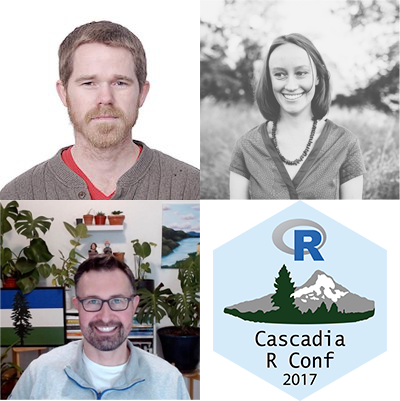
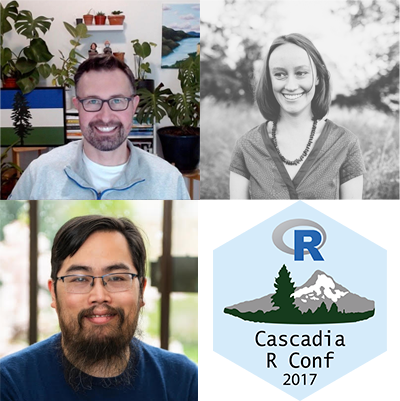
Update OG Cascadia R talk

diff --git a/layouts/partials/keynotes.html b/layouts/partials/keynotes.html
@@ -31,7 +31,7 @@
 			<div class="details col-md-9">
 				<div class="biography">
 				  <br><br><br>
-					<p>Join Scott Chamberlain, Jessica Minnier, and Chester Ismay, organizers of the first ever Cascadia R Conf!
+					<p>Join Jessica Minnier, Chester Ismay, and Ted Laderas, organizers of the first ever Cascadia R Conf!
 					</p>
 				</div>
 			</div>

diff --git a/content/speakers/speaker_info_2023/keynote/og_cascadiaR/index.md b/content/speakers/speaker_info_2023/keynote/og_cascadiaR/index.md
@@ -8,18 +8,6 @@ url: "2023/keynote/og_cascadiaR"
 
 <table>
   <tr><td><img width="300px" style="float: left; padding: 0px 20px 0px 0px;" 
-           src="../../../../img/speakers/speakers_2023/scott_chamberlain.jpg" alt="Scott Chamberlain"></td>
-  <td>
-      <h5>Scott Chamberlain</h5>
-      <h5>Pronouns: he, him</h5>
-      <h5>Portland, OR, USA</h5>
-      Scott is a Senior Data Engineer at Deck. He previously ran the Portland R meetup and helped run the first two Cascadia R Conf's.
-      </td></tr>
-
-</table>
-
-<table>
-  <tr><td><img width="300px" style="float: left; padding: 0px 20px 0px 0px;" 
            src="../../../../img/speakers/speakers_2023/jessica_minnier.jpg" alt="Jessica Minnier"></td>
   <td>
       <h5>Jessica Minnier</h5>
@@ -38,6 +26,19 @@ url: "2023/keynote/og_cascadiaR"
       <h5>Pronouns: he, him</h5>
       <h5>Portland, OR, USA</h5>
       Chester is currently the Senior Director of Data Science and Cybersecurity Education at Flatiron School. Chester also enjoys leading teams, helping others get into data science, figuring out how to best practice and improve on their skills, and working as a part-time consultant on R and Python programming projects. He is co-author of multiple R packages as well as a textbook entitled "Statistical Inference via Data Science: A ModernDive into R and the Tidyverse" available at moderndive.com and for purchase from CRC Press. He has previously worked as a professor in academia, as a campus-wide R and statistics consultant, as a curriculum lead in online education, and as a data science and machine learning corporate trainer.
+      </td></tr>
+
+</table>
+
+
+<table>
+  <tr><td><img width="300px" style="float: left; padding: 0px 20px 0px 0px;" 
+           src="../../../../img/speakers/speakers_2023/ted_laderas.jpg" alt="STed Laderas"></td>
+  <td>
+      <h5>Ted Laderas</h5>
+      <h5>Pronouns: he/him</h5>
+      h5>Portland, OR, USA</h5>
+      Ted is a founding member of the Cascadia-R conference. He is a bioinformatics trainer and data science mentor. He trains and empowers learners in learning how to utilize cloud platforms effectively and execute and communicate effective data science. He also is a co-organizer of the PDX-R user group and visualizing Tidy Tuesday datasets in his free time.
       </td></tr>
 
 </table>

diff --git a/content/pages/agenda.md b/content/pages/agenda.md
@@ -82,7 +82,7 @@ border-color:black;
 
 #### 12:35 - 1:35 PM: Lunch (Behnke Suites)
 
-#### 1:35 - 2:05 PM: [Scott Chamberlain, Jessica Minnier, Chester Ismay](/2023/keynote/og_cascadiaR)
+#### 1:35 - 2:05 PM: [Jessica Minnier, Chester Ismay, Ted Laderas](/2023/keynote/og_cascadiaR)
 
 * TBD
 
